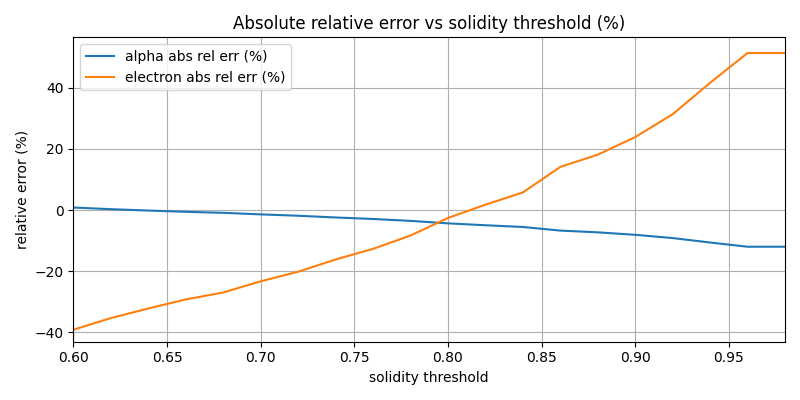
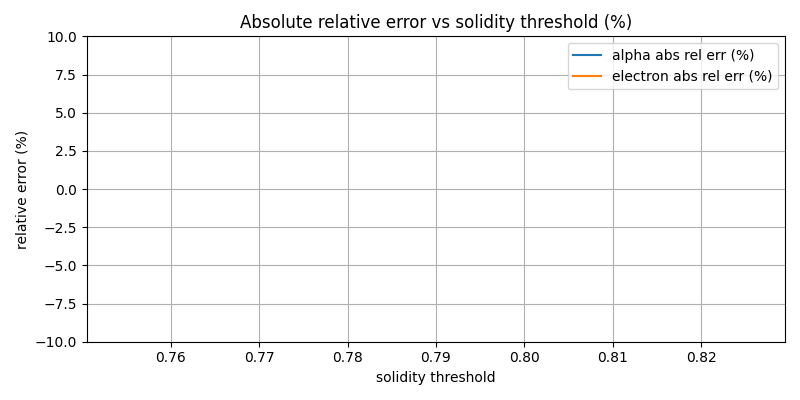
Mise a jours de de dossier

diff --git a/Programmes_rangés/Programmes_de_bases/compteur.py b/Programmes_rangés/Programmes_de_bases/compteur.py
@@ -9,7 +9,7 @@ try:
     from .read_file import read, slice, slice_Tot
     from .filtres import filtre_alpha, filtre_tracks
     from .plot_results import plot_results
-    from .event_detector_v4 import event_counting_alpha, event_counting_electron_muon,event_counting_photon
+    from .event_detector_v3 import event_counting_alpha, event_counting_electron_muon,event_counting_photon
     # diagnostic: indicate which import branch succeeded
    
 except Exception:
@@ -18,14 +18,14 @@ except Exception:
     from read_file import read, slice, slice_Tot
     from filtres import filtre_alpha, filtre_tracks
     from plot_results import plot_results
-    from event_detector_v4 import event_counting_alpha, event_counting_electron_muon,event_counting_photon
+    from event_detector_v3 import event_counting_alpha, event_counting_electron_muon,event_counting_photon
     # diagnostic: indicate fallback import used
    
 
 
 def compteur_particles(file = "None", t= 0, d_time = None, plot = False, block = False,
                     return_images=False, is_slice = False,save = [False,"plot_results.png",Path.cwd()],
-                    discrimination_criteria = {"alpha":{}, "electron_muon":{}},
+                    discrimination_criteria = {"electron_muon":{}},
                     loop=0):
     """Count particle types in a time window and optionally plot the results.
 
@@ -68,7 +68,7 @@ def compteur_particles(file = "None", t= 0, d_time = None, plot = False, block =
         image = file
     else:
         data = file if not(type(file) == str) else read(file)
-        d_time = d_time if d_time!=None else 150000000  # Diviser le temps
+        d_time = d_time if d_time!=None else 15e6  # Diviser le temps
 
         image = slice(data.to_numpy(), t, d_time)
 
@@ -78,11 +78,10 @@ def compteur_particles(file = "None", t= 0, d_time = None, plot = False, block =
     
     #Counting particles + cluster based filtering of alpha
 
-    N_alpha,falses_alphas = event_counting_alpha(image_alpha, solidity_threshold=discrimination_criteria["alpha"].get("solidity_threshold", 0.2))
-
+    N_alpha = event_counting_alpha(image_alpha)
     #filtering of tracks
     # Appliquer le filtre pour enlever les tracks
-    image_gamma, image_tracks = filtre_tracks(image_without_alpha,falses_alphas=falses_alphas)
+    image_gamma, image_tracks = filtre_tracks(image_without_alpha)
 
 
     N_electrons , N_muons, N_alpha_corr = event_counting_electron_muon(electron_muon_matrix = image_tracks,
@@ -131,10 +130,10 @@ if __name__ == "__main__":
     # Lecture des données et création de l'image binaire
     #file = "C:/Users/Graziani/Desktop/Projet CEA/Particle_tracking_algorithme_project_M1-2-IN/DATA-20251022T080148Z-1-001/DATA/alpha/60sec_alpha_39kbq_2.5cm_r0.t3pa"
     #file = "C:/Users/Graziani/Desktop/Projet_CEA/Projet/Particle_tracking_algorithme_project_M1-2-IN/DATA-20251022T080148Z-1-001/DATA/Combined_Am_SrY/2.5cm/2.5cm_r0.t3pa"
-    file = "C:/Users/Graziani/Desktop/Projet_CEA/Projet/Particle_tracking_algorithme_project_M1-2-IN/DATA-20251022T080148Z-1-001/DATA/alpha/60sec_alpha_39kbq_2.5cm_r0.t3pa"
-    #Counting particles
+    #file = "C:/Users/Graziani/Desktop/Projet_CEA/Projet/Particle_tracking_algorithme_project_M1-2-IN/DATA-20251022T080148Z-1-001/DATA/alpha/60sec_alpha_39kbq_2.5cm_r0.t3pa"
+    file = "C:/Users/Graziani/Desktop/Projet_CEA\Projet\Particle_tracking_algorithme_project_M1-2-IN/DATA-20251022T080148Z-1-001/DATA/beta_SrY/5min_beta_SrY_2cm_ground_source/5min_beta_SrY_2cm_ground_source_prise2_r0.t3pa"
     data = read(file)
-    dt = 1.5E6
+    dt = 1.5E7
     n_windows = int(np.ceil(data.iloc[:, 1].max() / dt)) if dt > 0 else 1
     N_alpha_total = 0
     N_electrons_total = 0      

diff --git a/Programmes_rangés/Programmes_de_bases/filtres.py b/Programmes_rangés/Programmes_de_bases/filtres.py
@@ -70,7 +70,7 @@ def filtre_alpha(image):
     image_without_alpha = image - image_alpha
     return image_without_alpha, image_alpha
 
-def filtre_tracks(image, falses_alphas:np.ndarray = None):
+def filtre_tracks(image):
     """
     Morphological filtering to separate tracks (electrons/muons) from the image.
     Parameters
@@ -85,31 +85,6 @@ def filtre_tracks(image, falses_alphas:np.ndarray = None):
         (image_without_tracks, image_tracks) as uint8 arrays.
 
     """
-    ## Reconstruction of the false alpha matrix 
-    ## Reconstruction of the false alpha matrix 
-    if falses_alphas is not None:
-        falses_alphas_image = np.zeros_like(image, dtype=np.uint8)
-        # Version vectorisée : empile les listes de pixels puis indexe en masse
-        try:
-            # gestion si falses_alphas est vide
-            if len(falses_alphas) == 0:
-                stacked = np.empty((0, 2), dtype=int)
-            else:
-                stacked = np.vstack([np.asarray(fa) for fa in falses_alphas])
-            if stacked.size:
-                rows = stacked[:, 0].astype(np.intp)
-                cols = stacked[:, 1].astype(np.intp)
-                # sécurité bornes indices
-                rows = np.clip(rows, 0, image.shape[0] - 1)
-                cols = np.clip(cols, 0, image.shape[1] - 1)
-                falses_alphas_image[rows, cols] = 1
-        except Exception:
-            # Fallback robuste si format inattendu
-            for false_alpha in falses_alphas:
-                for pixels in false_alpha:
-                    falses_alphas_image[int(pixels[0]), int(pixels[1])] = 1
-        image = np.maximum(image, falses_alphas_image)
-
     ## filtering of tracks
     # Kernel vertical et horizontal
     structure_verticale = np.ones((1, 4), dtype=np.uint8)

diff --git a/Programmes_rangés/Programmes_de_benchmark/Benchmark_confusion.py b/Programmes_rangés/Programmes_de_benchmark/Benchmark_confusion.py
@@ -56,7 +56,7 @@ def get_current_memory_usage_mib():
 if __name__ == "__main__":
     # Load cluster files once
     cluster_files = [np.load(i, allow_pickle=True) for i in list_npy_files(
-        "C:/Users/Félix/Desktop/Programmation/Projet_cea/Particle_tracking_algorithme_project_M1-2-IN/DATA-20251022T080148Z-1-001/DATA/Combined_Am_SrY/2.5cm",
+        "C:/Users/Graziani/Desktop/Projet_CEA/Projet/Particle_tracking_algorithme_project_M1-2-IN/DATA-20251022T080148Z-1-001/DATA/Combined_Am_SrY/2.5cm",
         recursive=False
     )]
 
@@ -79,7 +79,7 @@ if __name__ == "__main__":
     print(f"Alpha: {N_alpha_true}, Electrons: {N_electron_true}, Muons: {N_muon_true}, Gamma: {N_gamma_true}, Other: {N_other_true}")
 
     # Prepare solidity threshold sweep
-    solidity_values = np.round(np.arange(0.6, 0.991, 0.02), 3)
+    solidity_values = [np.round(0.79, 3)]
     rel_err_alpha = []
     rel_err_electron = []
 
@@ -123,7 +123,7 @@ if __name__ == "__main__":
                     img,
                     is_slice=True,
                     discrimination_criteria={
-                        "alpha": {},
+                        "alpha": {"solidity_threshold": 0},
                         "electron_muon": {
                             "eccentricity_threshold": 0.99,
                             "solidity_threshold": float(sol),

diff --git a/Programmes_rangés/Programmes_de_bases/event_detector_v4.py b/Programmes_rangés/Programmes_de_bases/event_detector_v4.py
@@ -17,7 +17,7 @@ def event_counting_alpha(uncorrected_alpha_matrix,
 
     # Si matrice vide -> problème
     if not np.any(uncorrected_alpha_matrix):
-        return 0,0
+        return 0,[]
 
     # Labelise et compte le nombre de cluster trouvé, sans discrimination ni de critere de chevauchement 
     structure = np.ones((3, 3), dtype=int)  # crée une matrice 2D de 3 sur 3 remplie 1 qui correspond aux 8 positions possibles autour du pixel observé
@@ -62,8 +62,7 @@ def event_counting_alpha(uncorrected_alpha_matrix,
         #print("Liste des rapport de taille avec la médiane : \n", estimated_counts, "\n")
         alpha_count = int(np.sum(estimated_counts))    # valeur du comptage avec prise en compte du chevauchement  (somme de la liste estimated_sounts)
         #print("Nombre de cluster avec filtre de chevauchement : ", aplha_count, "\n")
-        
-    # Affichage du graphique optionel des chevauchements
+            # Affichage du graphique optionel des chevauchements
     if plot_result:   
         overlap_matrix = labeled_alpha_only_matrix.copy()
         for i in np.unique(labeled_alpha_only_matrix):

diff --git a/Programmes_rangés/Programmes_de_bases/event_detector_v3.py b/Programmes_rangés/Programmes_de_bases/event_detector_v3.py
@@ -36,7 +36,7 @@ def event_counting_alpha(alpha_matrix, plot_result=False) :
     estimated_counts = np.round(sizes / typical_size)   # liste de l'arrondi de la taille des cluster par rapport a la taille mediane
     estimated_counts[estimated_counts == 0] = 1     # transforme les arrondis 0 en 1 
     #print("Liste des rapport de taille avec la médiane : \n", estimated_counts, "\n")
-    aplha_count = int(np.sum(estimated_counts))    # valeur du comptage avec prise en compte du chevauchement  (somme de la liste estimated_sounts)
+    alpha_count = int(np.sum(estimated_counts))    # valeur du comptage avec prise en compte du chevauchement  (somme de la liste estimated_sounts)
     #print("Nombre de cluster avec filtre de chevauchement : ", aplha_count, "\n")
     
     
@@ -52,7 +52,7 @@ def event_counting_alpha(alpha_matrix, plot_result=False) :
         plt.xlabel("X")
         plt.ylabel("Y")
     
-    return aplha_count
+    return alpha_count
 
 #%% Fonction de comptage beta/muons/
 
